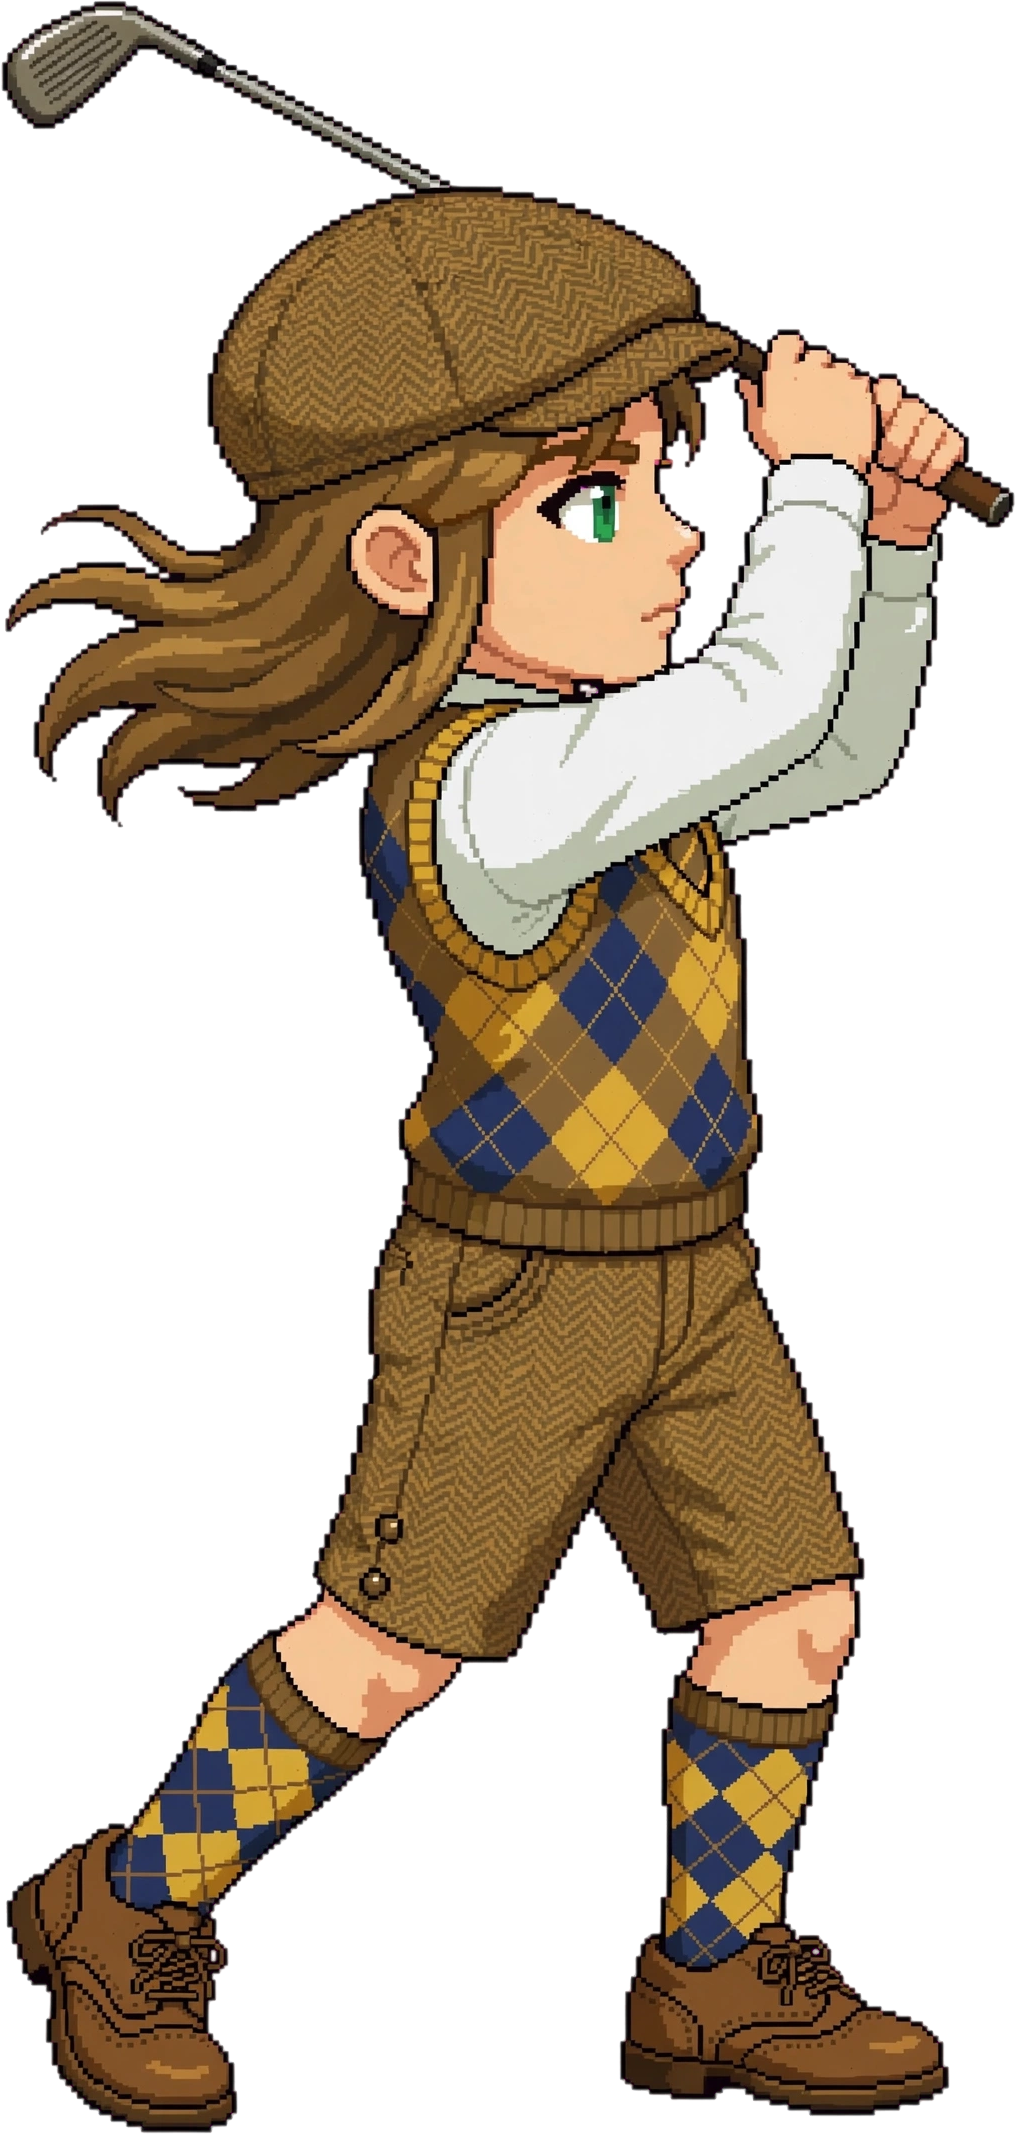
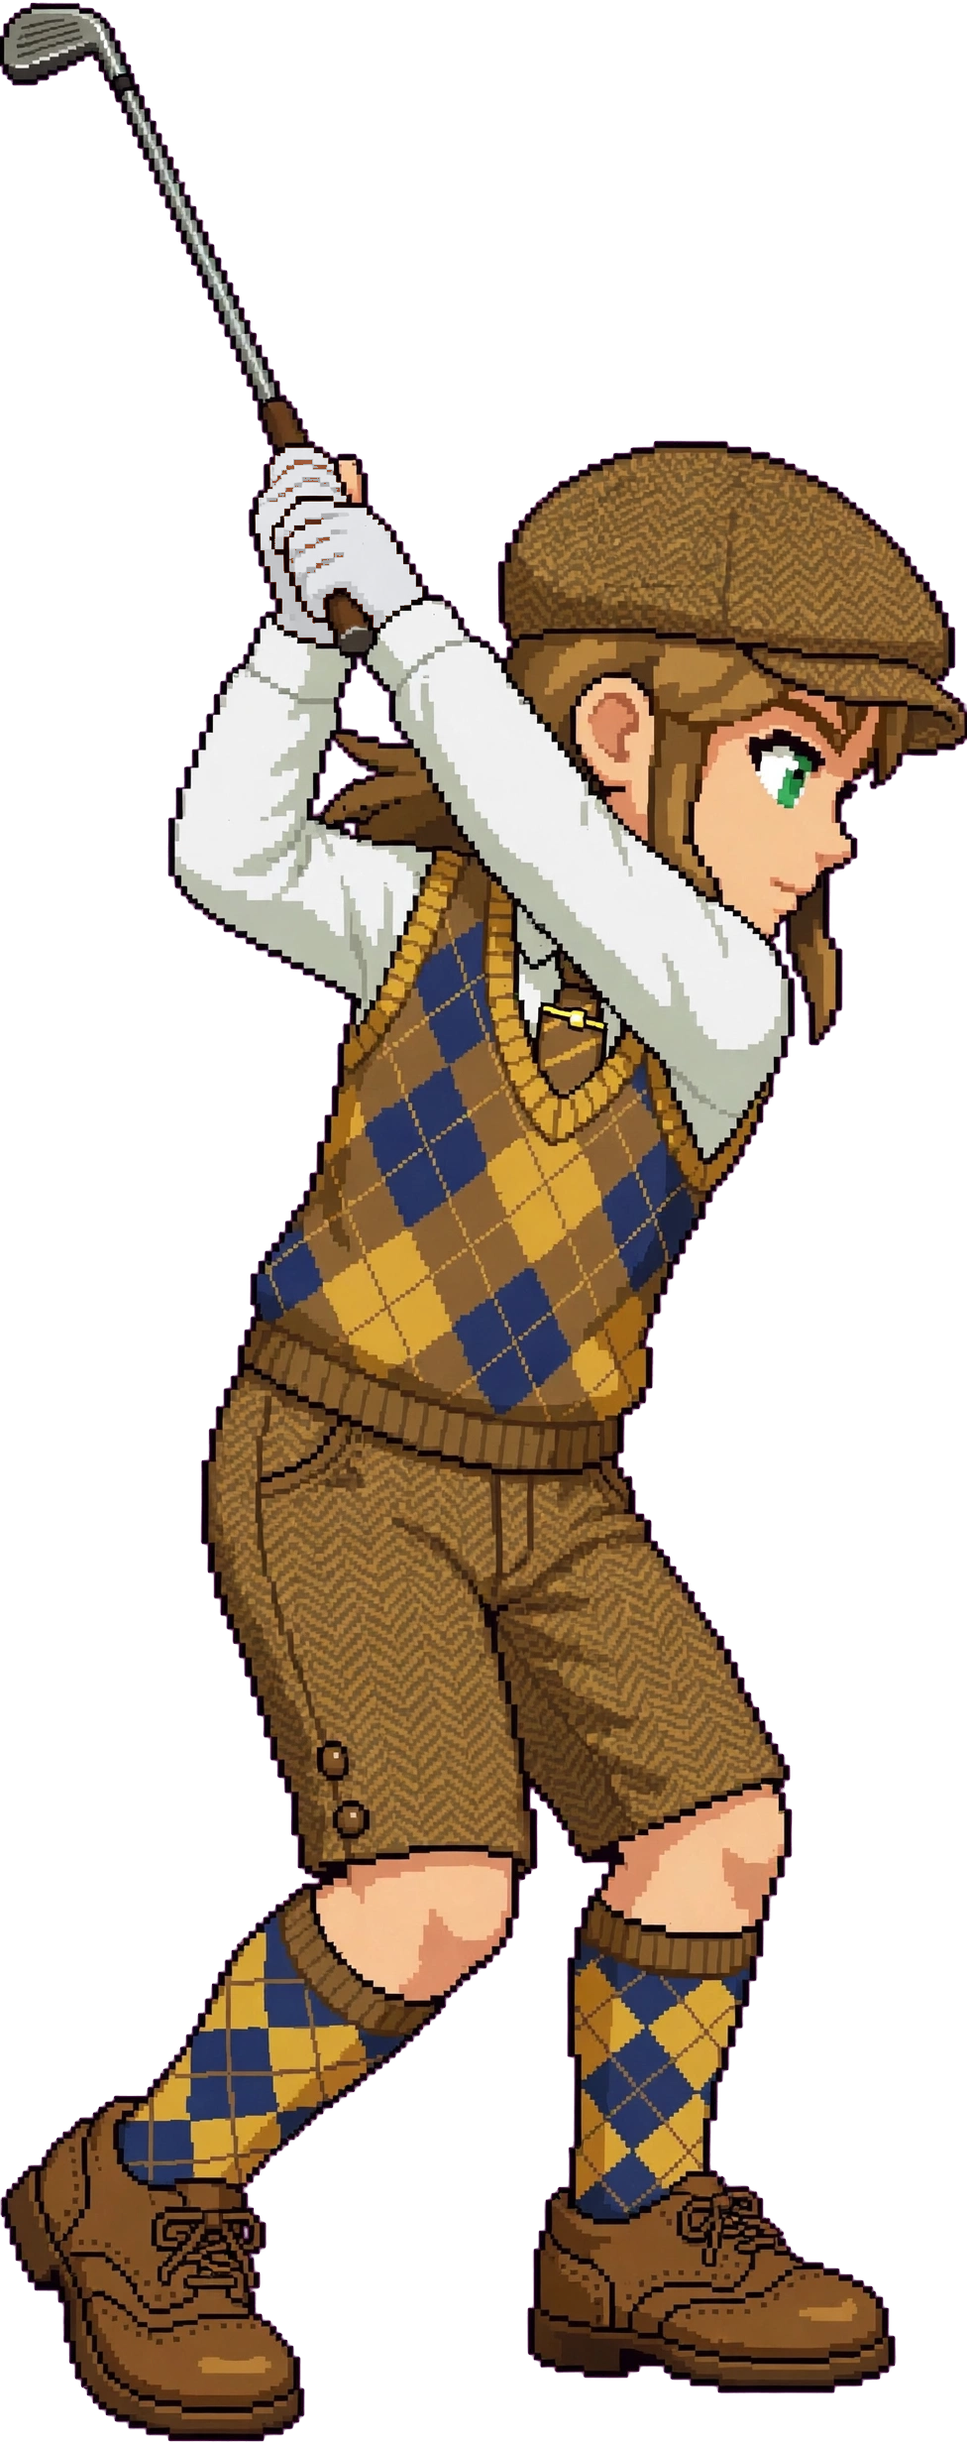
スイングポーズ絵を最終セットに差し替え v0.5

diff --git a/BUILD-NOTES.md b/BUILD-NOTES.md
@@ -102,6 +102,17 @@
   - `25_putt_done.png` パット（約2.06m・ベスト）でカップインし、結果オーバーレイ表示。
   - シーケンス確認：押す→アドレス→テークバック→トップ→離す→（swing 状態）→インパクトで発射→フォロー→フィニッシュ→着地→次の狙い画面（ドライバー1打で残り 350m→173m）。パットも同じシーケンスで動作。
 
+## 変更履歴：スイングポーズ絵を最終セットに差し替え（v0.5、2026-11-22、ユーザー逐次承認）
+- **ポーズ絵7枚を最終セットに差し替え**（`index.html` の変更なし。ファイル名・シーケンス・タイミングは v0.4 のまま）：
+  - テークバック／トップ／ダウンスイング／インパクト／フォロー／フィニッシュを描き直し、ユーザーのポーズごとの OK を得た絵に差し替え。アドレスは従来絵を継続使用。
+  - **余韻（リラックス）ポーズは不採用**（ユーザー決定：画面構成的に使わない。フィニッシュが余韻を兼ねる）。当初フィニッシュとして描かれた絵は使わない。
+  - **左手の手袋を全ポーズに統一**：素手だった6枚（アドレス／トップ／ダウンスイング／インパクト／フォロー）は、左手の肌部分だけを白手袋に塗り替えて対応（ポーズ自体は再描画せずピクセル同一を維持）。
+  - **大きさの統一**：フィニッシュは当初「他より小さい」と見えたが、較正の結果、実際はフォローが小さかった（ユーザー指摘）。フィニッシュは元の大きさのまま、フォローを約12%拡大して頭の位置をアドレス等と一致させた。
+  - **フィニッシュのクラブ色を統一**：茶色シャフトだったフィニッシュのクラブを、他ポーズと同じ銀シャフトに塗り替え（グリップの茶色は維持、輝度を保ったまま無彩色化）。
+- 検証（puppeteer、縦 480×860、three.min.js は同一版 r128 をローカル差し替え）：コンソール／ページエラー **0件**（2回通し）。追加スクリーンショット（目視確認済み）：
+  - `27_top.png` トップ絵（新）、`31_takeback.png` テークバック段階（検証環境の実時間制約でトップ表示になったもの。テークバック絵自体は並び画像で確認済み）、`32_seq0.png` フォロースルー絵（新・拡大版）で発射直後、「ベストショット！」表示、`32_seq1.png` フィニッシュ絵（新）でボールを見送る画、`29_flight.png` サイドバッククォーター追随。
+  - ティーショット着地→次の狙い画面への遷移、パットのシーケンス動作も確認。パットのカップインは検証環境の離散積分誤差で僅かに届かない既存挙動（物理は未変更）。
+
 ## 公開時に必要なファイル
 - `index.html`、`golfer.png`、`flag.png`、`swing_address.png`、`swing_takeback.png`、`swing_back.png`、`swing_down.png`、`swing_impact.png`、`swing_follow.png`、`swing_finish.png` の10点（公開リポジトリ ukos/nono-field-golf-playground のルートに同列で配置。index.html は相対パスで参照）。
 - `shots/` と本メモは公開不要（ソースリポジトリ ukos/nono-field-golf 側に置く想定）。
